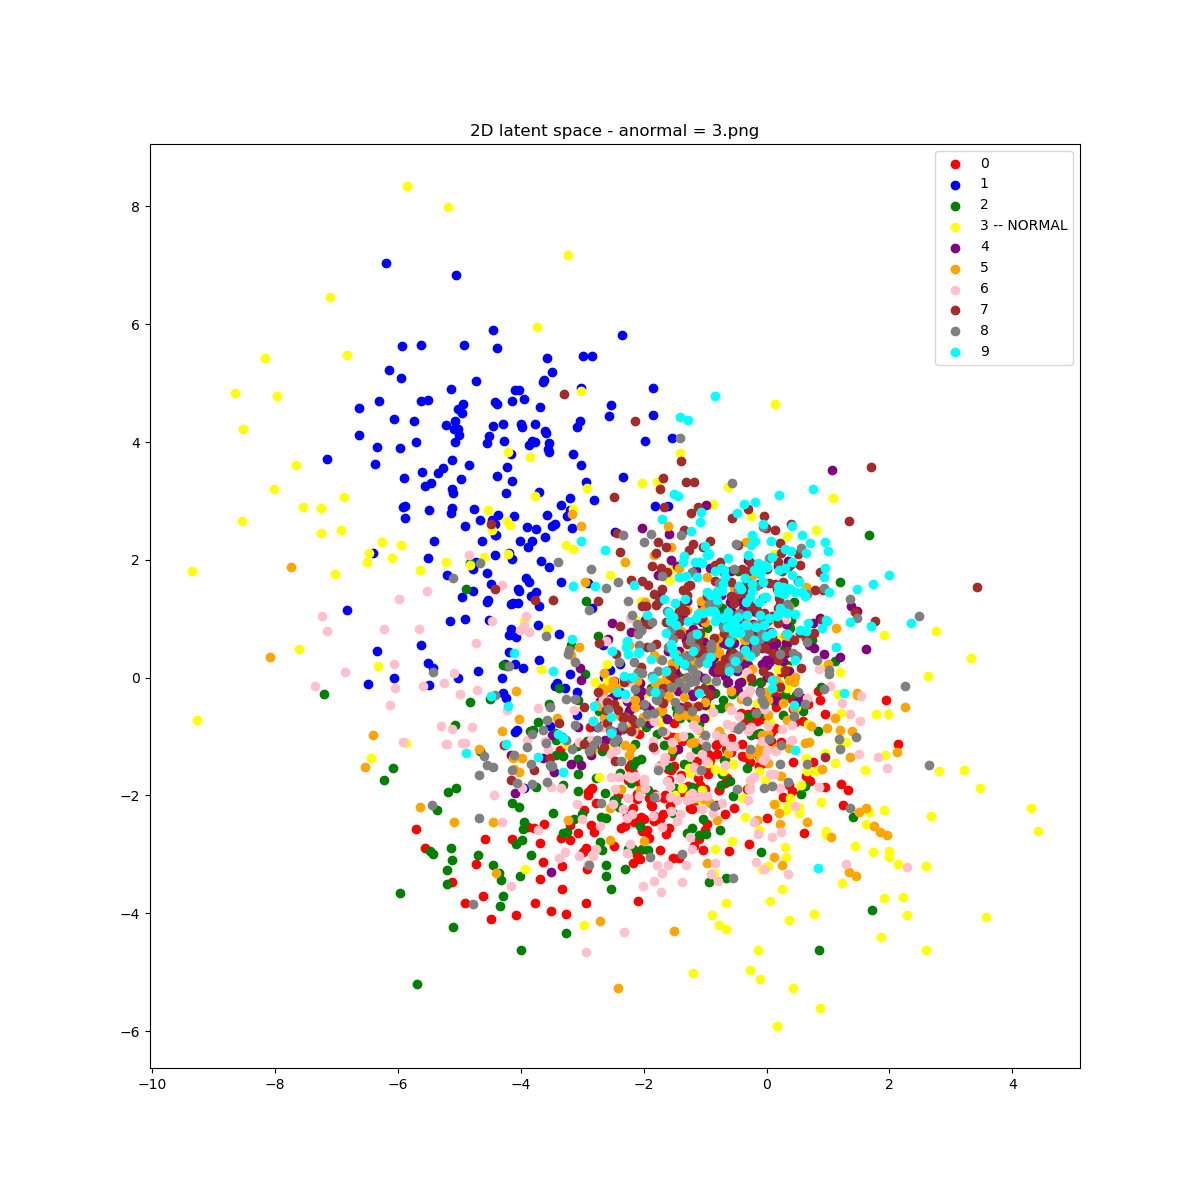
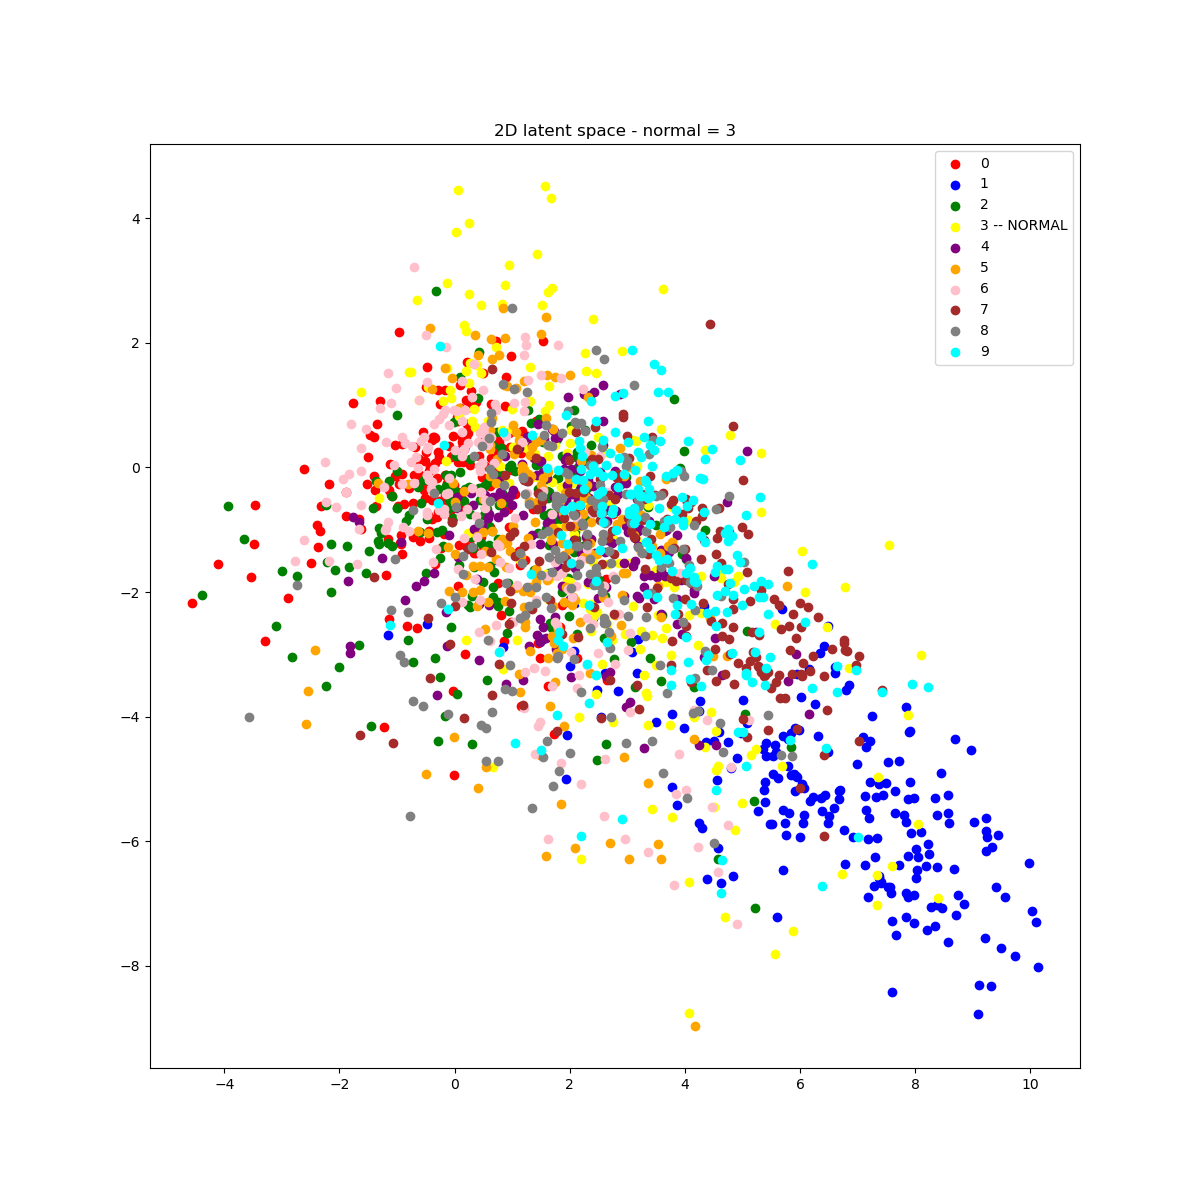
figures

diff --git a/projections/OneVSAll/vae.py b/projections/OneVSAll/vae.py
@@ -70,6 +70,6 @@ for normal in range(10):
         else:
             plt.scatter(z[:,0], z[:,1], c=labels[digit], label=digit)
     plt.legend()
-    plt.title(f"2D latent space - anormal = {NORMAL}.png")
+    plt.title(f"2D latent space - normal = {NORMAL}")
     plt.savefig(f"figures/vae/latent_space_norm_{NORMAL}.png")
     plt.close
